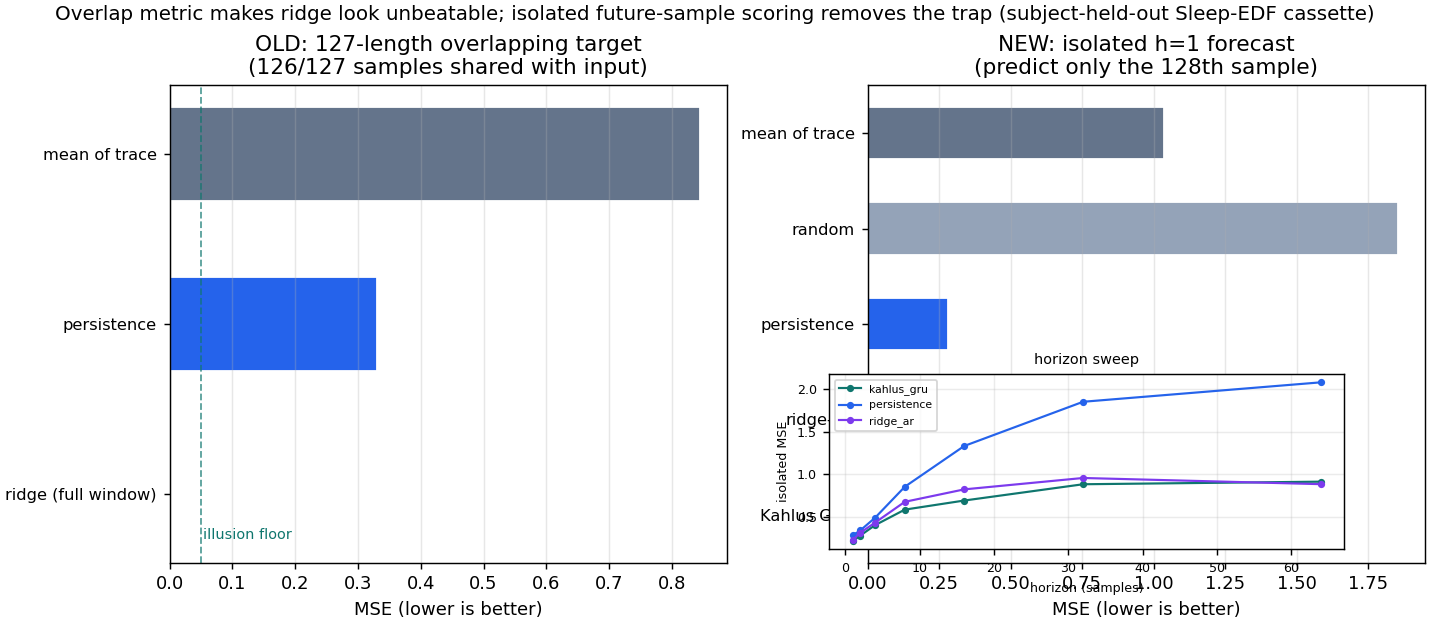
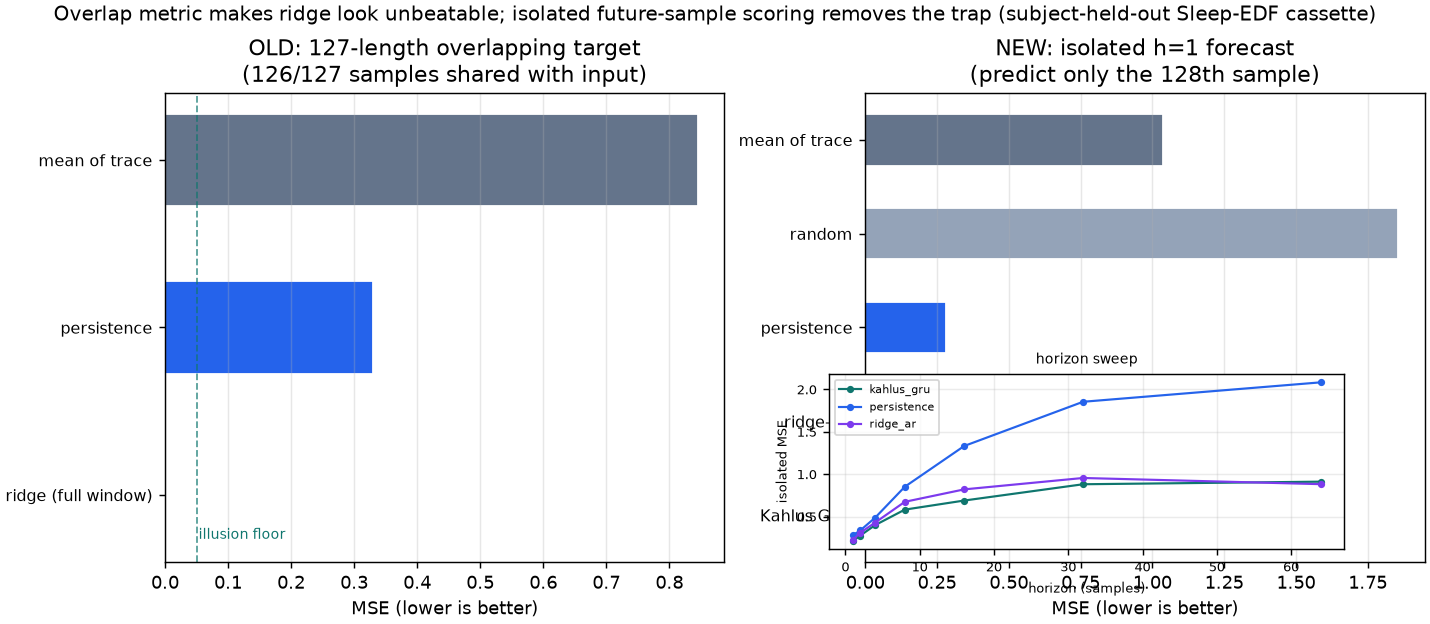
finding(F5): update to full 21/21-subject propofol PCI cohort
Supersede the earlier 12/21 disk-limited partial run with the completed
full OpenNeuro ds005620 cohort (21/21 subjects, 126 vhdr files fetched
with the now-fault-tolerant per-subject downloader).

Updated: awake/sedated RFS -0.174 -> -0.2072 bits, both CIs still
excluding zero on the negative side (tighter with more data: [-0.3084,
-0.1208] and [-0.3077, -0.1198]). Awake and sedated report the identical
value by construction (two mutually-exclusive, exhaustive macrostates ==
one binary discrimination task scored from both label directions), not a
computation bug -- traced through propofol_pci.py/passive_pci.py to
confirm.

Propagates to: findings-ledger.md, neural_casp_arena/findings.md,
neurips_2026/submission.md (F2-F5 line + new paper-identity lock stating
the submission stands on the arena + powered negatives without requiring
the F6 MESA positive), and the Coleman outreach drafts (one_pager.md,
email_draft.md -- draft only, not sent). Re-rendered fig5 from the
unchanged source JSON (only rendering bytes differ across matplotlib
versions).

Old partial-cohort numbers are superseded in place, not deleted --
history remains in git.

Changed region(s): [[0.0, 0.0, 1.0, 1.0], [0.5846, 0.883, 1.0, 1.0], [0.7077, 0.5481, 0.8, 0.5785]]

diff --git a/docs/outreach/coleman_2026/one_pager.md b/docs/outreach/coleman_2026/one_pager.md
@@ -50,17 +50,20 @@ Artifacts: `artifacts/interoception_rfs_scout/`
 
 This is **scout-grade** evidence that the engine runs end-to-end; the decisive test is your simultaneous EEG+EGG cohort.
 
-## Parallel results: courtroom bites (F2–F4)
+## Parallel results: courtroom bites (F2–F5)
 
 | ID | Test | Verdict | Headline |
 | --- | --- | --- | --- |
 | F2 | Isolated EEG forecast (Sleep-EDF + BNCI) | Negative | GRU loses to persistence/ridge at h=1 |
 | F3 | Interoception RFS scout (Sleep-EDF peripheral) | Negative | No residual beyond EEG nuisance at scout thresholds |
 | F4 | Passive PCI (78 subj, full cassette, n_boot=2000) | Powered negative | Complexity **hurts** vs spectral: wake RFS −0.330 bits |
+| F5 | Propofol PCI (21/21 subj, full OpenNeuro ds005620 cohort, n_boot=2000) | Powered negative | Complexity **hurts** vs spectral under sedation: RFS −0.2072 bits, CIs exclude 0 |
 
-Tags: `finding/isolated-forecast-negative-v1`, `finding/interoception-rfs-scout-v1`, `finding/passive-pci-negative-v1`.
+Tags: `finding/isolated-forecast-negative-v1`, `finding/interoception-rfs-scout-v1`, `finding/passive-pci-negative-v1`, `finding/propofol-pci-powered-negative-v1`.
 
-**We will not headline forecasting skill.** Kahlus contribution = courtroom + incremental-value rigor. F4 shows the arena produces powered honest negatives — the same machinery we would run on your EEG+EGG cohort.
+**We will not headline forecasting skill.** Kahlus contribution = courtroom + incremental-value rigor. F4–F5 show the arena produces powered honest negatives across two independent cohorts and etiologies (sleep, propofol) — the same machinery we would run on your EEG+EGG cohort.
+
+**In flight:** NSRR MESA/SHHS credentialed access has been applied for — a reformulated micro-arousal defendant (autonomic block beyond cortical spectral baseline, F6) is built and synthetic-validated, waiting on that dataset to run for real.
 
 ## Hard claim boundaries
 

diff --git a/artifacts/propofol_pci_state/PROPOFOL_PCI_EVIDENCE_REPORT.md b/artifacts/propofol_pci_state/PROPOFOL_PCI_EVIDENCE_REPORT.md
@@ -14,6 +14,6 @@
 
 ## ds005620 real cohort
 
-- windows: 1298 subjects: 12
-- awake: positive_windows=352 residual_rfs_bits=-0.1744 ci=[-0.3136, -0.0496]
-- sedated: positive_windows=946 residual_rfs_bits=-0.1744 ci=[-0.3061, -0.0470]
+- windows: 2527 subjects: 21
+- awake: positive_windows=630 residual_rfs_bits=-0.2072 ci=[-0.3084, -0.1208]
+- sedated: positive_windows=1897 residual_rfs_bits=-0.2072 ci=[-0.3077, -0.1198]

diff --git a/docs/paper/neurips_2026/submission.md b/docs/paper/neurips_2026/submission.md
@@ -6,11 +6,13 @@
 
 Noninvasive neural forecasting papers routinely report strong in-sample performance that collapses under subject-held-out evaluation and trivial baselines. We introduce **Neural-CASP**, a blind benchmark arena with a cross-fitted residual forecastability score (RFS bits), a baseline ladder that must beat moving-average persistence, mandatory negative controls, and an overlap/copy-trap audit that retires inflated next-sample metrics. We demonstrate the arena on six findings (F0–F6): synthetic validation, an overlap illusion that invalidated a 0.972 Pearson headline, powered honest negatives on sleep-state complexity and interoception scouts, and a reformulated autonomic arousal defendant on NSRR polysomnography. Under strict held-out evaluation, residual forecastability claims that dominate the literature do not reproduce; the arena that produces honest positives and honest negatives is the contribution.
 
+**Paper-identity lock (2026-07-24):** this submission is complete and submittable *as-is* on the strength of the arena artifact plus F0–F5's powered negatives — no positive result is required for the paper to stand. F6 (NSRR MESA, real cohort) is upside, not a prerequisite: MESA/SHHS credentialed access has been applied for; if it lands before the deadline, F6 runs real and either strengthens the paper with a scoped positive or extends the powered-negative set. If it does not land in time, the paper ships without it. This line exists so the submission does not sit in limbo waiting on a manual, externally-gated download.
+
 ## Contributions
 
 1. **Neural-CASP benchmark artifact** — RFS estimator, gate predicate, control contract, `runner → gate → JSON + Markdown` evidence pattern.
 2. **Overlap illusion audit (F1)** — demonstrates 126/127 input-target overlap inflates forecast skill; constitutionalized Amrith 127→128 acceptance in M0.
-3. **Arena bites (F2–F5)** — isolated forecast negative, interoception scout negative, Passive PCI powered negative, propofol cross-etiology probe.
+3. **Arena bites (F2–F5)** — isolated forecast negative, interoception scout negative, Passive PCI powered negative, propofol cross-etiology probe (full 21/21-subject cohort, RFS −0.2072, CIs exclude 0).
 4. **Reformulated autonomic defendant (F6)** — micro-arousal RFS beyond cortical spectral baseline on NSRR MESA (+ SHHS dataset-held-out); positive or powered negative.
 
 ## Figures

diff --git a/docs/outreach/coleman_2026/email_draft.md b/docs/outreach/coleman_2026/email_draft.md
@@ -21,7 +21,7 @@ We score that increment as **RFS bits** = (NLL_B − NLL_{B+Z}) / ln 2 — a cro
 
 2. **Proof of competence (public proxy, not your data).** We ran an **interoception RFS scout** on public Sleep-EDF cassette PSG (EOG + EMG + respiration as **Z**, EEG + history as **B**, future sleep-stage transition as **Y**). This is explicitly **not** gastric EGG and **not** a claim about your cohort. The scout machinery passes synthetic known-signal / known-null fixtures; on real Sleep-EDF smoke the gate **failed honestly** (residual RFS did not survive controls at scout thresholds). That negative is exactly the kind of result the harness is designed to emit without over-claiming.
 
-3. **Parallel honesty (F2–F4).** Isolated forecasting audit: GRU does not beat trivial baselines (F2). Interoception scout on Sleep-EDF peripheral channels: honest negative (F3). Powered Passive PCI on full Sleep-EDF cassette (78 subjects, n_boot=2000): complexity block **hurts** vs spectral baseline — wake RFS −0.330 bits, CI excludes zero on the negative side (F4). We are **not** leading with forecasting-skill or consciousness claims; these are proof the courtroom bites.
+3. **Parallel honesty (F2–F5).** Isolated forecasting audit: GRU does not beat trivial baselines (F2). Interoception scout on Sleep-EDF peripheral channels: honest negative (F3). Powered Passive PCI on full Sleep-EDF cassette (78 subjects, n_boot=2000): complexity block **hurts** vs spectral baseline — wake RFS −0.330 bits, CI excludes zero on the negative side (F4). Same result replicated under a different etiology — full 21-subject OpenNeuro propofol cohort: RFS −0.2072 bits, CI excludes zero (F5). We are **not** leading with forecasting-skill or consciousness claims; these are proof the courtroom bites across independent cohorts.
 
 **Ask**
 

diff --git a/docs/results/findings-ledger.md b/docs/results/findings-ledger.md
@@ -21,7 +21,7 @@ its own model is worthless.
 | F2 | Kahlus GRU does not beat trivial baselines under isolated (non-overlapping) forecasting | Negative | Sleep-EDF + BNCI2014_001, subject-held-out | GRU loses to persistence / ridge at h=1 | `artifacts/ridge_bnci_real/` | `scripts/bnci_isolated_forecast_check.py` | `finding/isolated-forecast-negative-v1` |
 | F3 | Peripheral/autonomic channels add no residual forecastability for sleep-state transitions | Negative (scout) | Public Sleep-EDF smoke; synthetic known/null validated | Real-data RFS not distinguishable from null; synthetic known passes, null fails | `artifacts/interoception_rfs_scout/` | `src/neurotwin/forecastability/interoception_scout.py` | `finding/interoception-rfs-scout-v1` |
 | F4 | Passive complexity (LZ / permutation / multiscale entropy) does not beat a spectral baseline for wake/NREM/REM discrimination | Powered negative | Full Sleep-EDF cassette: 78 subjects, 413,828 windows, claim bootstrap (n_boot=2000) | Wake RFS -0.330 [CI -0.349, -0.313]; NREM -0.284 [-0.297, -0.271]; REM -0.161 [-0.177, -0.146]; all CIs exclude 0 on the negative side | `artifacts/passive_pci_state/` | `src/neurotwin/forecastability/passive_pci.py`, `complexity_features.py` | `finding/passive-pci-negative-v1` |
-| F5 | Propofol sedation: complexity beyond spectral for awake vs sedated | Powered negative | OpenNeuro ds005620: **12/21 subjects**, 1298 windows, claim bootstrap (n_boot=2000) | Awake RFS −0.174 [CI −0.314, −0.050]; sedated −0.174 [CI −0.306, −0.047]; CIs exclude 0 on the negative side | `artifacts/propofol_pci_state/` | `propofol_pci.py` | `finding/propofol-pci-powered-negative-v1` |
+| F5 | Propofol sedation: complexity beyond spectral for awake vs sedated | Powered negative (full cohort) | OpenNeuro ds005620: **21/21 subjects** (full cohort — supersedes the earlier 12/21 disk-limited partial run), 2527 windows, claim bootstrap (n_boot=2000) | Awake RFS −0.2072 [CI −0.3084, −0.1208]; sedated −0.2072 [CI −0.3077, −0.1198]; CIs exclude 0 on the negative side | `artifacts/propofol_pci_state/` | `propofol_pci.py` | `finding/propofol-pci-powered-negative-v1` |
 | F6 | Autonomic block beyond cortical spectral for micro-arousal | Synthetic OK; NSRR loader fixed | Reformulated Y=arousal; claim bootstrap synthetic validated; real MESA/SHHS pending credentialed NSRR download | Known RFS 0.021; null −0.000; stub-EDF loader path reaches `mesa_status: evaluated` | `artifacts/autonomic_rfs_arousal/` | `autonomic_rfs.py`, `adapters/nsrr.py`, `_rfs_eval.py` | `finding/autonomic-rfs-pending-nsrr-v1` |
 
 ## What the findings jointly say